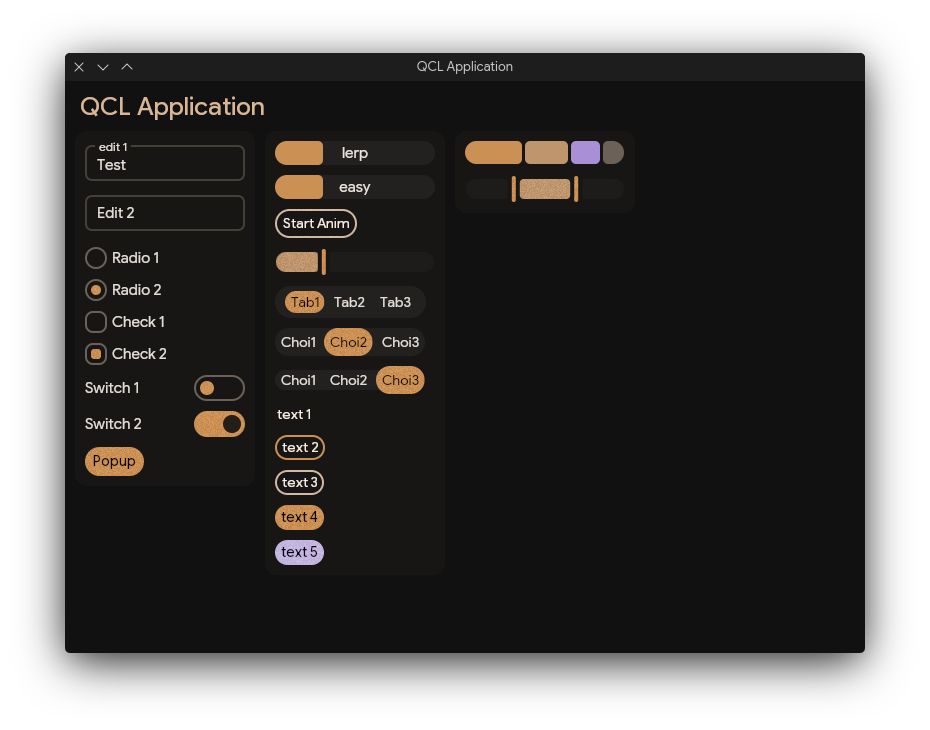
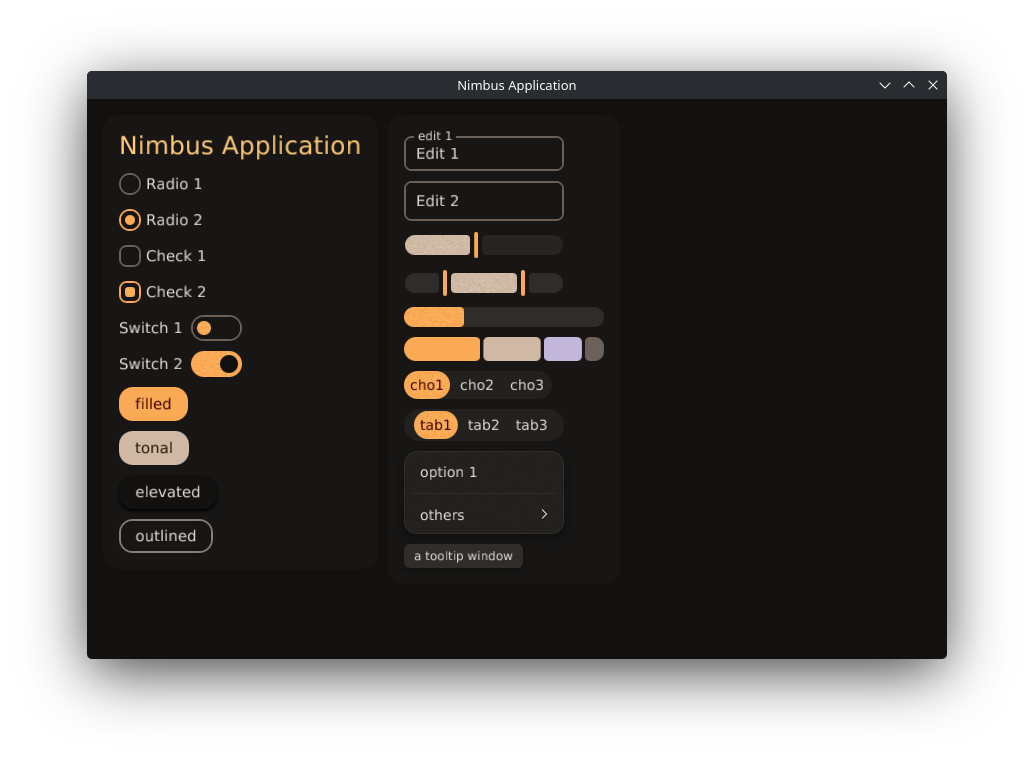
docs: update README with Nimbus architecture, features, and new UI screenshot

diff --git a/README.tr.md b/README.tr.md
@@ -1,25 +1,33 @@
-## QCL
+# Nimbus
 
-Modern, Skia tabanlı bir kullanıcı arayüzü (UI) motoru ve iskeleti. 
-QAOS çatısı altında geliştirilen QCL, arayüz programlamayı basitleştirmek ve modern prensiplerini benimsemek için temiz ve katmanlı bir mimariye odaklanır.
+Saf Rust ile geliştirilmiş GPU hızlandırmalı bir kullanıcı arayüzü (UI) motoru ve iskeleti.
+
+QAOS çatısı altında geliştirilen Nimbus; bildirimsel bir arayüz dili (**QDL**), Vulkan tabanlı 2D render hattı, Material Design 3 / Monet dinamik renk paleti ve fizik tabanlı interaktif yay animasyonlarını bir araya getirir.
 
 Diğer diller: [en](README.md)
 
+---
 
-## Mimari
+## Özellikler
 
-Proje, birbirinden yüksek oranda ayrıştırılmış modüller halinde yapılandırılmıştır:
+- **GPU Hızlandırmalı 2D Render Motoru:** Vulkan (`nimbus_rhi_ash`) üzerinde çalışan, GPU prosedürel noise gölgelendiricileri (shaders) ve yüksek kaliteli font atlası (`fontdue`) içeren 2D çizim motoru.
+- **Bildirimsel QDL Biçimlendirmesi:** Arayüz hiyerarşisini, stilleri ve olay bağlamalarını kolayca tanımlayan insan dostu arayüz işaretleme dili.
+- **Dinamik Tema (Material 3 / Monet):** OKLCH tabanlı dinamik ton paletleri, yükseklik (elevation) belirteçleri, yarıçap ve çizgi stilleri ile tam açık/koyu tema desteği.
+- **Yay Animasyonları:** Hızlı ve tepkisel yay fiziği (`Spring::INTERACTIVE`, `BOUNCY`, `SMOOTH`) ve yumuşak geçiş eğrileri (`EmphasizedDecelerate` vb.).
+- **Bileşen Kütüphanesi (`nimbus_ui`):**
+  - **Girdi & Kontroller:** Düğmeler (`Button` - Filled, Tonal, Elevated, Outlined), Onay Kutusu (`Check`), Radyo Düğmesi (`Radio`), Anahtar (`Switch`), Kaydırıcı (`Slider`), Aralık Kaydırıcı (`Interval`), Metin Girişi (`Edit`).
+  - **Gezinme & Seçim:** Sekmeler (`Tabs`), Seçenek Çipleri (`Choice`), Açılır Menüler (`Popup` - animasyonlu alt menüler ve özel yön okları ile).
+  - **Geribildirim & Göstergeler:** İlerleme Çubuğu (`ProgressBar`), Çoklu İlerleme Çubuğu (`MultiProgressBar`), İpucu Kutusu (`Tooltip` / `ToolTip` - yön konumlandırması ve yumuşak kayma animasyonları ile).
+  - **Düzen & Konteynerler:** Yatay Kutu (`HBox`), Dikey Kutu (`VBox`), Akış Düzeni (`Flow`), Kart (`Card`), Kaydırılabilir Alan (`ScrollView`).
 
-1. **QCL Çekirdek (Core):** Temel arayüz bileşenleri (Kontroller, Görünümler, Pencereler) ve sanal dosya sisteminin (VFS) yönetimi.
-2. **QSTD (Standart Kütüphane):** Kullanıma hazır, standartlaştırılmış UI bileşenleri paketi.
-3. **Platform:** İşletim sistemine özgü entegrasyonlar ve düşük seviyeli arka uç (backend) bağlantıları.
-
+---
 
 ## Görseller
 
-![QCL Arayüz Testi](/images/test.png)
+![Nimbus Arayüz Testi](/images/test.png)
 *Arayüz testi.*
 
+---
 
 ## Lisans
 
@@ -27,6 +35,7 @@ Bu proje GNU Genel Kamu Lisansı sürüm 3 (GPL3) altında lisanslanmıştır.
 
 Telif Hakkı (c) 2025-2026 Kadir Aydın.
 
+---
 
 ## QAOS
 

diff --git a/README.md b/README.md
@@ -1,25 +1,33 @@
-## QCL
+# Nimbus
 
-A modern, Skia-based user interface (UI) engine and framework. 
-Developed under the QAOS umbrella, QCL focuses on a clean and layered architecture to simplify interface programming and embrace modern principles.
+A UI framework and engine.
+
+Developed under the QAOS umbrella, Nimbus combines a declarative UI markup language (**QDL**), a Vulkan-powered 2D rendering pipeline, dynamic Material Design 3 / Monet palette generation, and interactive physics-based spring animations.
 
 Other languages: [tr](README.tr.md)
 
+---
 
-## Architecture
+## Features
 
-The project is structured into highly decoupled modules:
+- **GPU-Accelerated 2D Renderer:** Low-level Vulkan abstraction (`nimbus_rhi_ash`) driving a custom 2D canvas with procedural GPU noise shaders and high-quality SDF/font glyph atlas rendering (`fontdue`).
+- **Declarative QDL Markup:** Clean and human-friendly UI markup language for defining layout trees, style blocks, and event bindings.
+- **Dynamic Theming (Monet):** OKLCH-based dynamic tonal palettes, elevation tokens, radius and stroke styling with full dark/light theme support.
+- **Spring Animations:** Responsive spring physics (`Spring::INTERACTIVE`, `BOUNCY`, `SMOOTH`) and modern easing functions (`EmphasizedDecelerate`, etc.).
+- **Component Library (`nimbus_ui`):**
+  - **Inputs & Controls:** Button (Filled, Tonal, Elevated, Outlined), Checkbox, Radio, Switch, Slider, Interval slider, TextInput (`Edit`).
+  - **Navigation & Selection:** Tabs, Choice chips, Popup menus (with animated submenus and custom chevron indicators).
+  - **Feedback & Display:** ProgressBar, MultiProgressBar, Tooltip / ToolTip (with directional positioning and fade/slide animations).
+  - **Layout & Containers:** HBox, VBox, Flow, Card, ScrollView.
 
-1. **QCL Core:** Management of fundamental interface components (Controls, Views, Windows) and the virtual file system (VFS).
-2. **QSTD (Standard Library):** A ready-to-use, standardized UI components package.
-3. **Platform:** Operating system-specific integrations and low-level backend connections.
-
+---
 
 ## Visuals
 
-![QCL Interface Test](/images/test.png)
+![Nimbus Interface Test](/images/test.png)
 *Interface test.*
 
+---
 
 ## License
 
@@ -27,6 +35,7 @@ This project is licensed under the GNU General Public License version 3 (GPL3).
 
 Copyright (c) 2025-2026 Kadir Aydın.
 
+---
 
 ## QAOS
 
